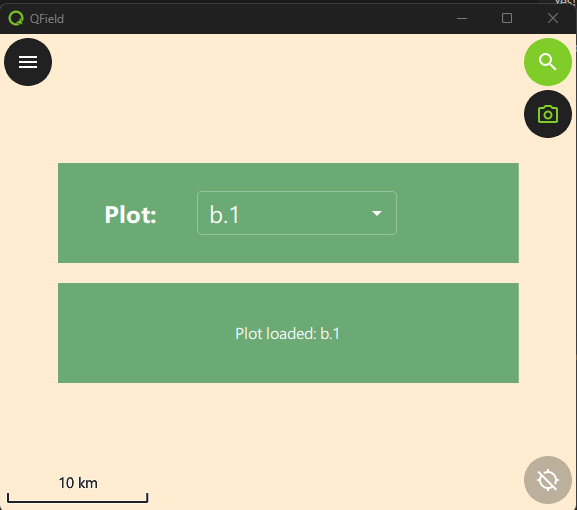
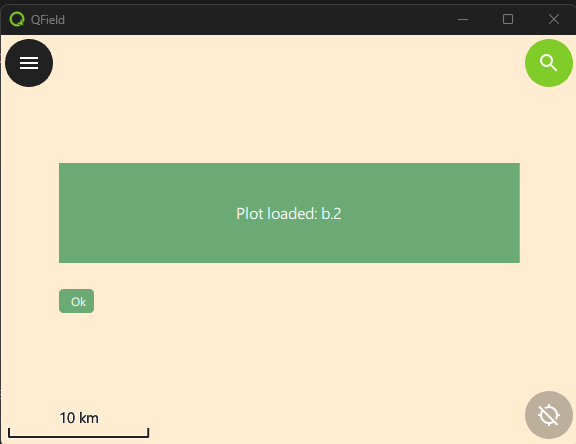
Add Workshop chapter for demonstration 2: feature selection

diff --git a/docs/demo2/DEMO2_MAP_CLICK.md b/docs/demo2/DEMO2_MAP_CLICK.md
@@ -1,6 +1,6 @@
 # Setting up Feature selection from the map canvas
 
-To set up feature selection from the map canvas, we have to register a QField pointHandler, much like a QgsMapTool in pyQGIS.  This is done in the main code file demo2_searchbar.qml.  
+To set up feature selection from the map canvas, we have to register a QField pointHandler, much like a QgsMapTool in pyQGIS.  This is done in the main code file demo2_selection.qml.  
 
 In doing this bit we are also going to learn:
 
@@ -16,13 +16,13 @@ In doing this bit we are also going to learn:
 - use a spatial query to find features on the plot layer that are inside the bounding box.
 - if a feature is found, activate the plugin and pass the feature's plot id to the plugin component.
 
-## 1. Retrieve the point handler
+## 1. Retrieve the point handler from the interface
 
 Retrieve and store a reference the the QField Interface's pointHandler as a class property.
 
 ```qml
 Item{
-
+    id: plugin
     property var pointHandler: iface.findItemByObjectName("pointHandler")
 
 }
@@ -39,7 +39,8 @@ The root Item is your plugin.  It's Component.onCompleted function fires when th
 
 ```qml
 Item{
-
+    id: plugin
+    property var pointHandler: iface.findItemByObjectName("pointHandler")
     Component.onCompleted{
         pointHandler.registerHandler("demo2_searchbar", my_callback);
     }
@@ -54,7 +55,8 @@ Use Component.onDestruction to define behavior on close.
 
 ```qml
 Item{
-
+    id: plugin
+    <...>
     Component.onDestruction{
         pointHandler.deregisterHandler("demo2_searchbar");
     }
@@ -67,14 +69,15 @@ Our callback function is written in Javascript.  Instead of using a function ref
 
 ```qml
 Item{
-
+    id: plugin
+    <...>
     Component.onCompleted{
         pointHandler.registerHandler("demo2_searchbar", my_callback);
     }
 }
 ```
 
-it is more common to see a Javascript arrow function syntax, as we will see in demo2_searchbar
+it is more common to see a Javascript arrow function syntax, as we will see in demo2_selection
 
 ```qml
 Item{
@@ -88,7 +91,7 @@ Item{
 }
 
 ```
-### The boolean return on your callback
+### Do not forget the boolean return on your callback
 The boolean return value from the pointHandler callback tells QField whether your handler consumed the event or not:
 
 return true - Event consumed
@@ -96,7 +99,8 @@ return true - Event consumed
 Your handler processed the click
 - QField should stop propagating the event to other handlers
 - Prevents default QField behavior for this click
-- return false or no return - Event not consumed
+
+return false or no return - Event not consumed
 
 - Your handler didn't process the click (or wants to pass it through)
 - QField continues propagating to other registered handlers
@@ -104,35 +108,38 @@ Your handler processed the click
 
 ## 5. Define the callback to get map coordinates from the user interaction
 
-### decide which interaction you want
+### Decide which interaction you want
 
-- "clicked" : Triggering on single click can cause trouble, because the Attribute Table opens on a single click, and you can have a conflict.  
-              - In QField for Windows, single clicks dont cause a problem for our plugin. 
-              - In QField for iOS, if you use a single click, the Attribute Table will be rendered on top of the plugin.  
-- "doubleClicked" : Triggering on double click is a great idea for our plugin.  We can allow the user to view and edit plot information 
-                     on a single click, and enter the plugin with a double click.
-                     - In QField for Windows (at the moment) the double click interaction doesn't register. 
-                     - In iOS, this works great.
-- "pressAndHold": This would theoretically be a nice mode for opening our plugin as well, but in practice it is a bad choice
-                    - In iOS, the context menu that opens on press blocks our plugin from opening on this interaction.
-                    - In Windows (at the moment), the press and hold interaction doesn't register.
+- "clicked" :   
+  Triggering on single click can cause conflict, because the Feature Drawer opens on a single click.  
+  - In QField for Windows, single click will block the Feature Drawer and replace it with our plugin.   
+  - In QField for iOS, if you use a single click, the Attribute Table will be rendered on top of the plugin.
+
+- "doubleClicked" :  
+  Triggering on double click will prevent conflict.  We can allow the Feature Drawer to open on a single click, and enter the plugin with a double click.  
+  - In QField for Windows (at the moment) the double click interaction doesn't register. 
+  - In iOS, this works great.
+- "pressAndHold":  
+   This would theoretically be a nice mode for opening our plugin as well, but in practice it is a bad choice
+  - In iOS, the context menu that opens on press blocks our plugin from opening on this interaction.
+  - In Windows, the press and hold interaction doesn't register.
 
 Does this mean that the boolean return isn't quite working as advertised?  Maybe.  There is also a priority set on point handler callbacks, which may influence the processing of the boolean return from the callback.
 
 To avoid conflicts with QField and ensure our plugin works in both environments, use clicked if we are in Windows, and doubleClicked if we are in iOS.
 
-#### dont forget your return
+### Dont forget your return
 
-- return true after handling your point, in order to block other handlers. like the QField Attribute Table, from firing.
+- return true after handling your point, in order to block other handlers like the QField Attribute Table from firing.
 - return false if you are ignoring the interaction, so that the next handler can pick it up.
 
 ```qml
 
 Item{
     Component.onCompleted{
-        pointHandler.registerHandler("demo2_searchbar", (point, type, interactionType) => {
+        pointHandler.registerHandler("demo2_selection", (point, type, interactionType) => {
             var shouldHandle = (Qt.platform.os === "windows" && interactionType === "clicked") ||
-                         (Qt.platform.os !== "windows" && interactionType === "doubleClicked")
+                               (Qt.platform.os !== "windows" && interactionType === "doubleClicked")
             if (shouldHandle) {
                 iface.logMessage("Platform " + Qt.platform.os)
                 iface.logMessage("Interaction " + interactionType)      
@@ -144,7 +151,7 @@ Item{
 }
 
 ```
-### get the pixel coordinates of the screen interaction
+### Get the pixel coordinates of the screen interaction
 
 ```qml
 
@@ -156,7 +163,8 @@ pointHandler.registerHandler("demo2_searchbar", (point, type, interactionType) =
     }
 });
 ```
-### convert them into map coordinates
+
+### Convert them into map coordinates
 ```qml
 
 pointHandler.registerHandler("demo2_searchbar", (point, type, interactionType) => {
@@ -194,7 +202,10 @@ pointHandler.registerHandler("demo2_searchbar", (point, type, interactionType) =
 
 ### Retrieve a feature from the plots layer with a LayerUtils feature iterator using a simple expression
 
-LayerUtils is imported from org.qfield.  We will query our plots layer for the feature with plot_id = 'b.1'.
+getFeatures is not yet an invokable qgis function.  Instead we can pass an expression to get a feature iterator from QField's LayerUtils class, which is imported from org.qfield.  
+
+We will query our plots layer for the feature with plot_id = 'b.1'.
+
 We will retrieve this feature and print its plot id.  (Not using our coordinates yet.)
 
 ```qml
@@ -252,9 +263,9 @@ The Loader class has the property "item", which contains the Item loaded by its 
 
 In our plugin component, we have defined a function setPlotId, which will receive a plot id and use it to populate the plugin's search bar and text box.
 
-Remember to close the iterator whether or not the feature is found!
+**Remember to close the iterator whether or not the feature is found!**
 
-Remember to return the boolean for the pointHandler. 
+**Remember to return the boolean for the pointHandler. **
 
 ```qml
     pointHandler.registerHandler("demo2_searchbar", (point, type, interactionType) => {
@@ -306,14 +317,8 @@ Item {
     // ...
   }  
 
-  // we kept the plugin button
-  QfToolButton {
-    // ...
-  }
 
   Component.onCompleted: {
-    // load the plugin button into the plugins toolbar
-    iface.addItemToPluginsToolbar(pluginButton)
  
     // Map Selection: 3. register the point handler and define its callback
     pointHandler.registerHandler("demo2_searchbar", (point, type, interactionType) => {
@@ -359,7 +364,7 @@ Item {
 In demo 1 I used iface.logMessage to print debug statements for the user to see.
 In demo 2 I have swapped them out with console.log statements.  These print to the terminal.  You can see them if you start qfield from a dos or bash shell, but they wont show up in the user logs.  This is generally nicer for the developer.
 
-That was a lot.  Ready to see the menu?
+That was a lot.  Lets take a look at how that plot id gets to the messageBox. This part is pretty easy.
 
-## 📚 **[Setting up a Searchable Menu](DEMO2_MENU.md)**
+## 📚 **[Handling the plot id in the Plugin Component](DEMO2_PLOTID.md)**
 ## 📚 **[<< Demo2 Introduction](DEMO2_INTRO.md)**

diff --git a/docs/demo2/DEMO2_INTRO.md b/docs/demo2/DEMO2_INTRO.md
@@ -1,37 +1,31 @@
-# Demonstration 2: Feature Selection with Search Bar and Map Selection
+# Demonstration 2: Feature Selection 
 
-This demonstration builds on Demo 1 by adding a search bar that allows a user to select a feature from a layer. 
+This demonstration builds on Demo 1 by adding the ability to select a feature from the map and to retrieve information from that feature to use in the plugin.
 
 ## What we will learn
 
-- How to align Items using Layout Containers.
-- How to access a project layer through the qfield interface
-- How to query features from a layer through the qfield interface
+- How to access a project layer through the QField interface
+- How to query features from a layer through the QField interface
 - How to select objects from the map canvas using a point handler
-- How to make a searchable Menu
+- How to send a signal to close the plugin
+- How to align items using Layout Containers
 
 ## What does it do?
  
-- It opens via a click on the camera icon to the right of the screen.  
-- **OR** it opens when the user clicks on a plot.
-- It displays a searchable drop down menu for plot ids.
-- If you select a plot id from the menu by doubleClicking on the point, the selected plot id will be displayed in the text frame.
-- A single click on the point will result in the usual Attribute Table behaviour
-- If you type an invalid plot id in the menu, an error message will be displayed in the text frame.
-- If you open using a map selection, the selected plot id will be displayed in the text frame.
-- If you open using a map selection, the selected plot id will be selected in the drop down menu.
- 
-![alt text](img/demo2_screen.png)
-![alt text](image-2.png)
+- It opens when the user doubleclicks on a plot on the map canvas.
+- It displays the plot id of the selected feature in the text frame.
+- A single click on the point will result in the usual Attribute Table behaviour. (On iOS.  This is not possible in the Windows executable.)
 
-- It also prints messages to the dos console, instead of the user's message log when a map feature is selected. 
+![plugin screen](img/demo2_screen.png)
+
+- It also prints messages to the dos console instead of the user's message log when a map feature is selected. 
 
 ![alt text](img/demo2_log.png)
 
 # Set it up
 
 1. Create a new project directory: ${ROOT}/qfield_project_demo_2 
-2. Copy the whole demo directory ${ROOT}/qfield_vegetation_plugin/demo2_searchbar ${ROOT}/qfield_project_demo_2
+2. Copy the whole demo directory ${ROOT}/qfield_vegetation_plugin/demo2_selection ${ROOT}/qfield_project_demo_2
 3. Open the project in QGIS.  The project has not changed from demo 1.
 4. Upload the project to QFieldCloud using the QField Sync Plugin.
 5. Load the project in the Windows QField

diff --git a/docs/demo2/DEMO2_CLOSE.md b/docs/demo2/DEMO2_CLOSE.md
@@ -1,0 +1,66 @@
+# Closing the Plugin: Sending signals
+
+Instead of using the button in the PluginToolbar to turn the plugin on and off, we now rely on the map click to open the plugin, and I have added an Ok button to the plugin component to close it.  This creates a simple example of creating and using custom signals.
+
+
+## Setting up the Signal from the component in d2_plugin_compontent.qml
+
+Just as you would in pyQt, our signal is defined inside our component item
+
+```qml
+Rectangle {
+  id: pluginFrame
+  signal closed()
+}
+```
+
+We then add a button to the pluginFrame which emits the signal when it is clicked
+
+```qml
+Rectangle {
+  id: pluginFrame
+  signal closed()
+  Button {
+    id: closeButton
+    onClicked: {
+        closed()
+    }
+  }
+}
+```
+
+## Connecting the signal in the plugin
+
+In demo2_select.qml, we have added a Connections item to connect the signal from pluginFrame.  This is the 3rd distinct method for handling signals and slots in QML.
+
+```qml
+
+Item {
+  id: plugin
+  Loader{
+    id:pluginLoader
+  }
+  Connections {
+    target: pluginLoader.item
+    function onClosed(){
+      pluginLoader.active = false
+    }
+  }
+}
+```
+
+This is equivalent to the pyQt
+
+```python
+ pluginLoader.item.closed.connect(onClosed)
+ def onClosed(){
+    pluginLoader.active=false
+ }
+```
+
+Note here that the connection between slot and function follows a mandatory naming convention whereby if the signal name is closed, the slot name must be onClosed.  Hey. I don't make the rules.
+
+I could tell you about Layouts, but I think you will be very bored if I do.  So let's skip to the next demo and I'll show you how to add and update a feature.
+
+## 📚 **[Demonstration 3: Adding and Updating a Feature, and a cool Tab Widget.](../demo3/DEMO3_INTRO.md)**
+## 📚 **[<< Demo2 Handling the Plot id](DEMO2_MAP_CLICK.md)**

diff --git a/docs/demo2/DEMO2_PLOTID.md b/docs/demo2/DEMO2_PLOTID.md
@@ -1,0 +1,48 @@
+# Expanding the Plugin Component to Use the Selected Plot
+
+This part is almost pythonically simple.
+
+## Sending the plot id to the component.
+
+In demo2_selection.qml, our pointHandler sent the plot id to the plugin component by passing it to the setPlotId function.
+
+- we got the plot id value using the QgsFeature invokable attribute function
+- pluginLoader's item property holds the root element of the plugin component, in this case d2_plugin_component.pluginFrame
+- setPlotId is a function that has been added to pluginFrame.
+
+```qml
+
+if (shouldHandle){
+    if (it.hasNext()){
+        const feature = it.next()
+          console.log(feature.id)
+          it.close()
+          pluginLoader.active = true
+          // pass the plot id to the plugin component
+          pluginLoader.item.setPlotId(feature.attribute("plot_id"))
+          return true
+    }
+}
+```
+
+## Handling plot id in demo2_plugin_component
+
+the function setPlotId simply sets the text in the message box. Ba Da Bing.
+
+```qml
+  Rectantgle{
+    id: pluginFrame
+    function setPlotId(plotId) {
+        messageBox.text = "Plot loaded: " + plotId
+        console.log("component loaded with plot ID:", plotId)
+    }
+    Rectangle{
+        id: messageBoxFrame
+        Text{
+            id: messageBox
+        }
+    }
+  }
+```
+## 📚 **[Closing the Plugin](DEMO2_CLOSE.md)**
+## 📚 **[<< Demo2 Map Click Logic](DEMO2_MAP_CLICK.md)**
